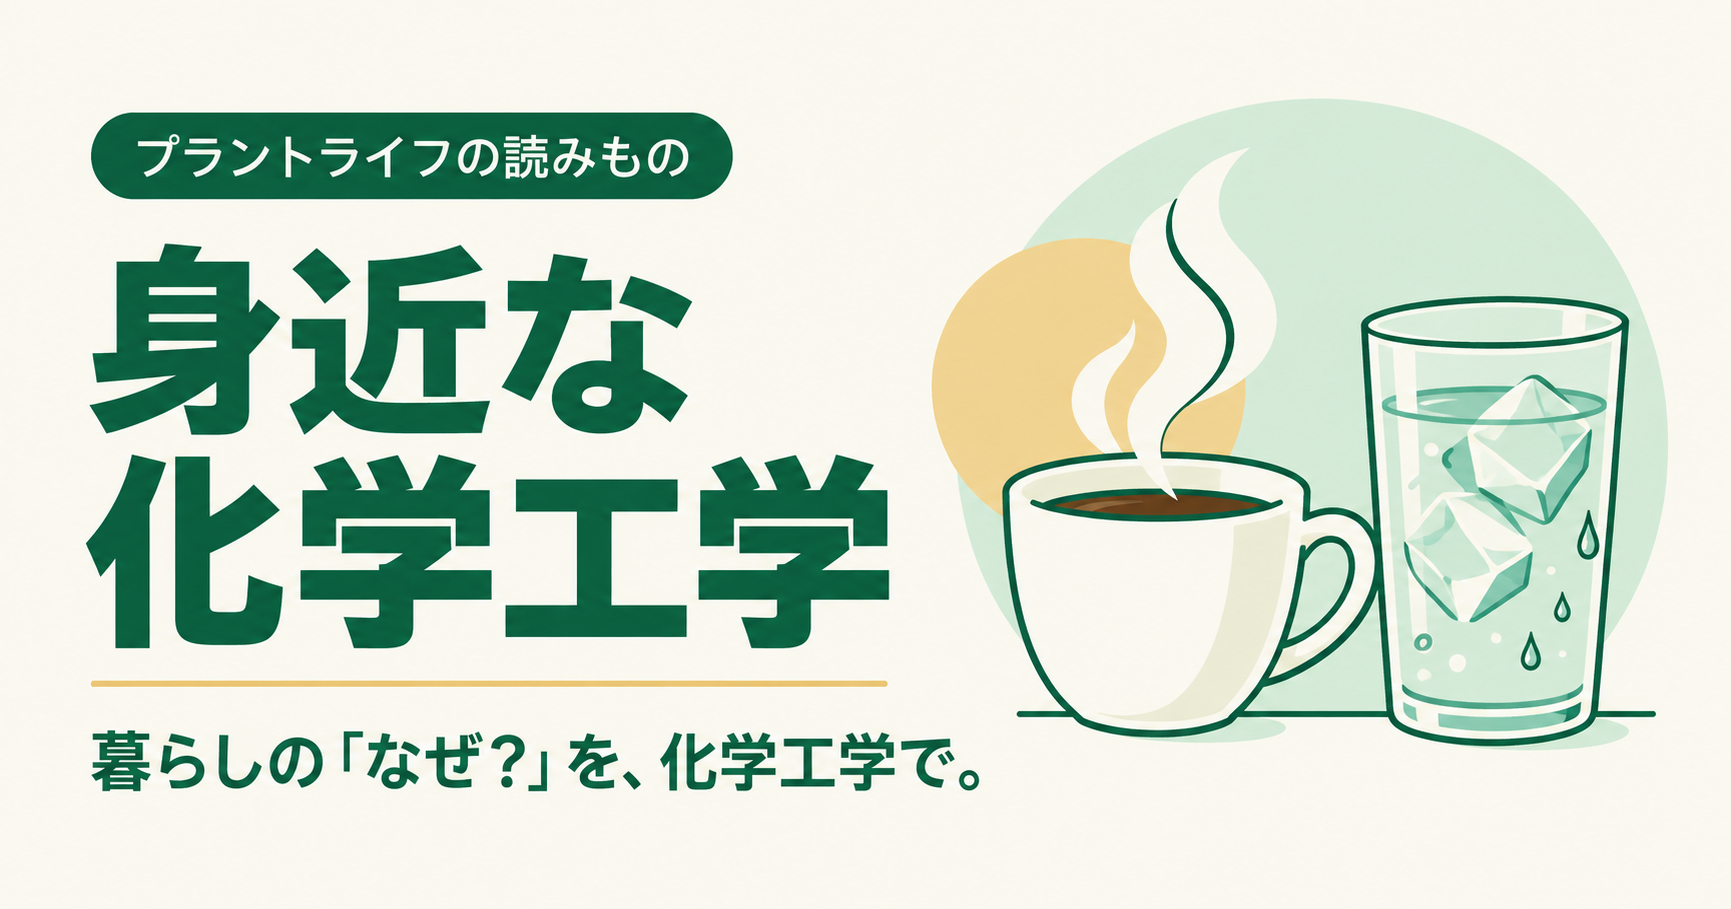
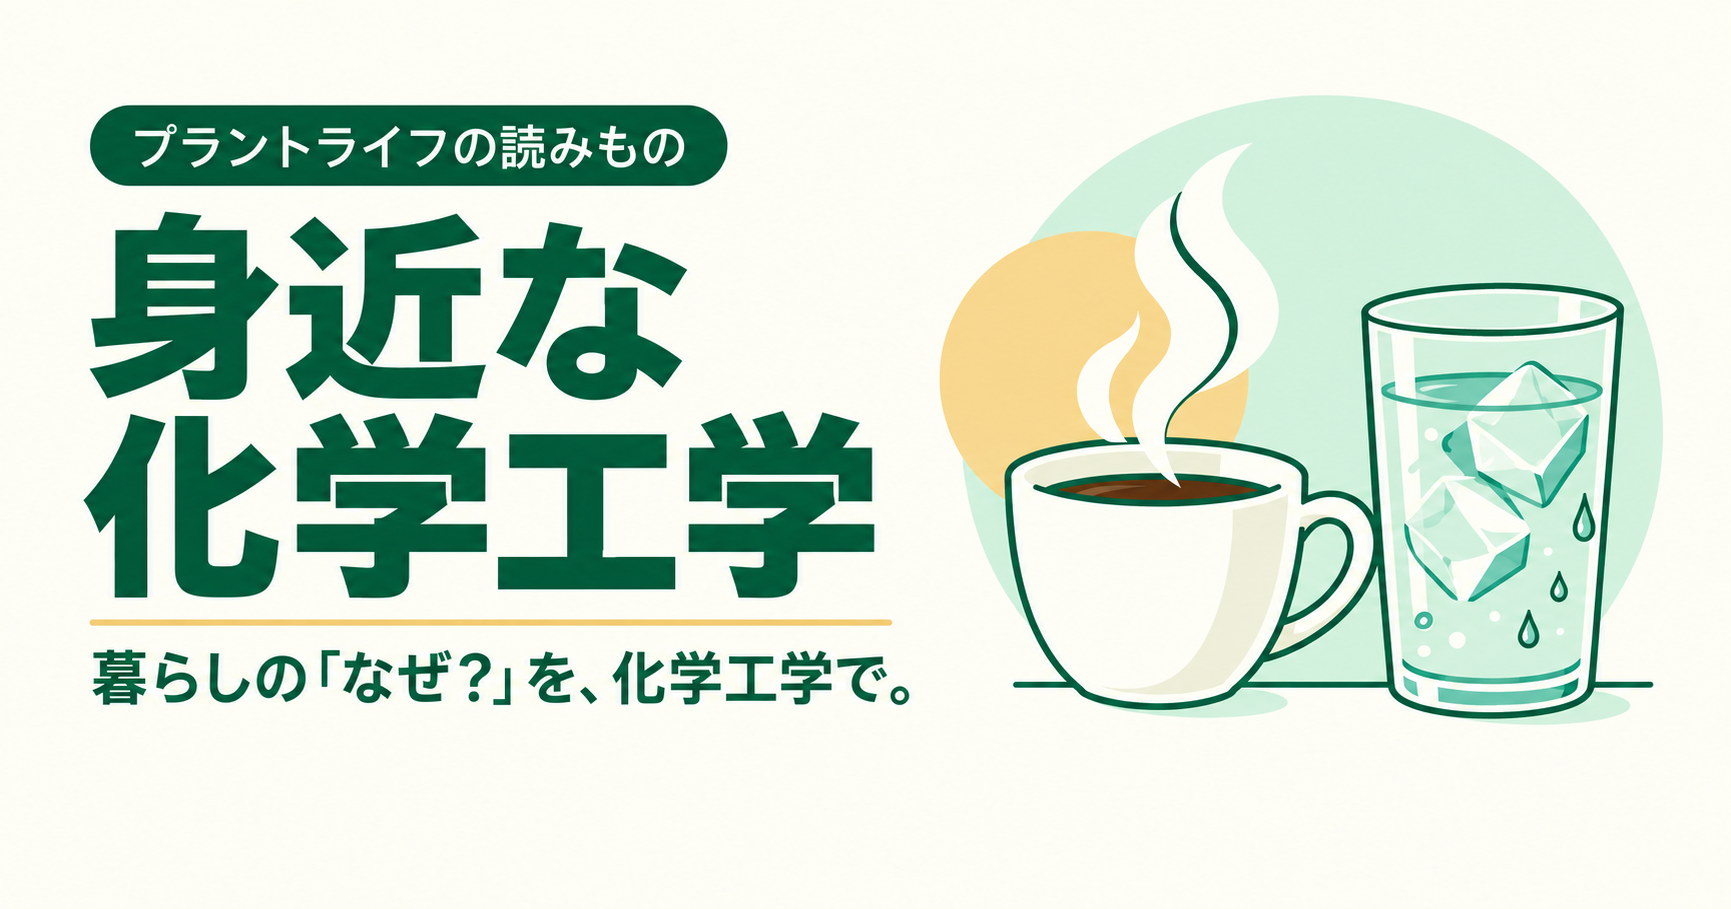
Keep feature thumbnail text clear of X mobile overlay

diff --git a/everyday-chemical-engineering/index.html b/everyday-chemical-engineering/index.html
@@ -19,14 +19,14 @@
   <meta property="og:title" content="身近な化学工学 | プラントライフ">
   <meta property="og:description" content="身近な「なぜ？」を、化学プラントの技術者が化学工学の視点で説明する読みものです。各記事はポッドキャストの放送回とつながっています。">
   <meta property="og:url" content="https://plantlife.chem-fac.com/everyday-chemical-engineering/">
-  <meta property="og:image" content="https://plantlife.chem-fac.com/images/ogp-everyday-chemical-engineering.png?v=f137ec64">
+  <meta property="og:image" content="https://plantlife.chem-fac.com/images/ogp-everyday-chemical-engineering.png?v=9b464287">
   <meta property="og:image:width" content="1731">
   <meta property="og:image:height" content="909">
   <meta property="og:image:type" content="image/png">
   <meta property="og:image:alt" content="プラントライフの読みもの「身近な化学工学」。暮らしの「なぜ？」を、化学工学で。">
   <meta name="twitter:title" content="身近な化学工学 | プラントライフ">
   <meta name="twitter:description" content="身近な「なぜ？」を、化学プラントの技術者が化学工学の視点で説明する読みものです。各記事はポッドキャストの放送回とつながっています。">
-  <meta name="twitter:image" content="https://plantlife.chem-fac.com/images/ogp-everyday-chemical-engineering.png?v=f137ec64">
+  <meta name="twitter:image" content="https://plantlife.chem-fac.com/images/ogp-everyday-chemical-engineering.png?v=9b464287">
   <meta name="twitter:image:alt" content="プラントライフの読みもの「身近な化学工学」。暮らしの「なぜ？」を、化学工学で。">
   <meta property="og:locale" content="ja_JP">
   <meta name="twitter:card" content="summary_large_image">
